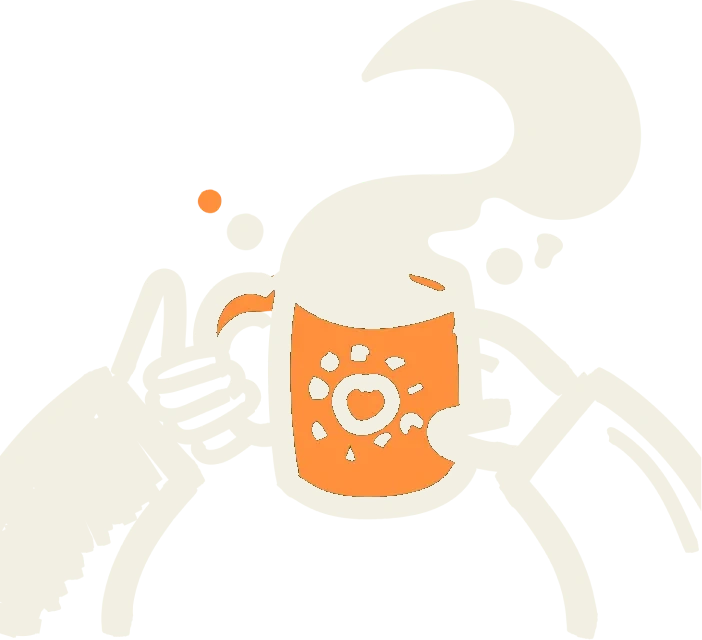
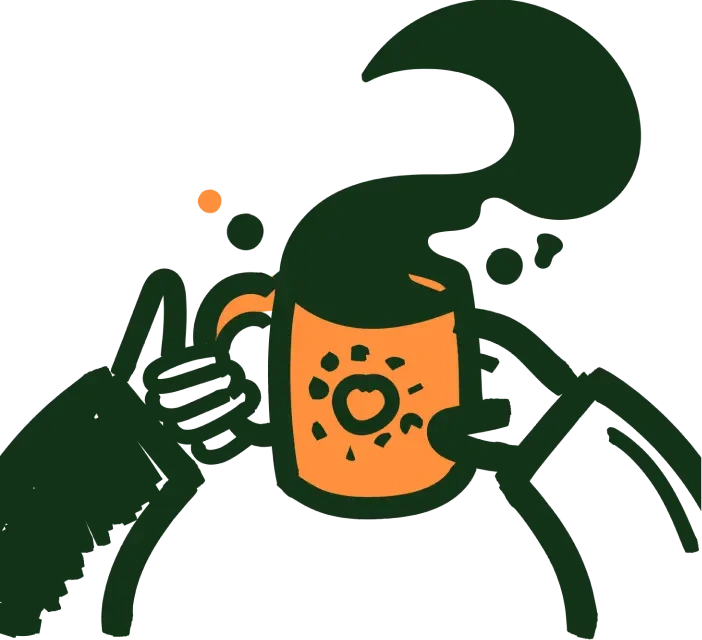
Make the cream hero the only one
Keeps the chosen treatment — no green panel, the wordmark leading in brand
green on cream paper — and removes the scaffolding built to compare them.

- Delete the band and cover hero functions, the ?hero= switch and their
  CSS blocks. logoBlock and mascotImg no longer take an ink argument.
- Delete the cream-ink artwork, now unused, and give the green pair the
  plain logo.webp / mascot.webp names.
- Retune the short-viewport tiers for this layout. The centred hero
  stacks the mascot under the wordmark, so it starts ~60px taller than
  the band did; trimming type and padding closed most of that, and below
  620px of height the mascot is hidden to close the rest.

Home now fits one screen with no scroll from 540px of visible height
upward, with every word of the copy intact at every size.

diff --git a/css/styles.css b/css/styles.css
@@ -188,9 +188,7 @@ a { color: inherit; text-decoration: none; }
 }
 
 /* ------------------------------------------------------------------ *
-   5. Hero
-      Three variants share these pieces; the .hero--* blocks below
-      arrange them. Pick one and delete the other two.
+   5. Hero — no green panel; the wordmark leads on cream paper
  * ------------------------------------------------------------------ */
 .hero { position: relative; isolation: isolate; }
 .hero__in {
@@ -201,13 +199,11 @@ a { color: inherit; text-decoration: none; }
 
 /* --- wordmark ---------------------------------------------------- */
 .brand { animation: rise .8s var(--ease-out) both .1s; }
-.brand__mark { width: min(12rem, 100%); }
-.brand--xl .brand__mark { width: min(17.5rem, 88%); }
-.brand--xxl .brand__mark { width: min(20rem, 82%); }
-.brand--center {
+.brand {
   display: flex; flex-direction: column; align-items: center;
   text-align: center;
 }
+.brand__mark { width: min(20rem, 82%); }
 .brand__kicker {
   display: block; margin-top: .5rem;
   font-size: .66rem; font-weight: 600;
@@ -222,60 +218,13 @@ a { color: inherit; text-decoration: none; }
   animation: bob 7s ease-in-out infinite;
 }
 
-/* --- variant A: slim green band, logo dominant ------------------- */
-.hero--band {
-  background: var(--ink-deep);
-  color: var(--paper);
-  border-radius: 0 0 var(--r) var(--r);
-  overflow: hidden;
-  margin-bottom: var(--sp-block);
-}
-.hero--band::before {
-  content: '';
-  position: absolute; inset: 0; z-index: -1;
-  background: radial-gradient(ellipse 66% 90% at 106% 50%,
-    color-mix(in srgb, var(--matcha) 26%, transparent), transparent 70%);
-}
-.hero--band .hero__in {
-  display: flex; align-items: center; gap: 1rem;
-  padding-top: calc(clamp(1.1rem, 2.6vh, 1.9rem) + env(safe-area-inset-top));
-  padding-bottom: clamp(1rem, 2.4vh, 1.7rem);
-}
-.hero--band .brand { flex: 1 1 auto; min-width: 0; }
-.hero--band .mascot--band { flex: none; width: clamp(3.8rem, 18vw, 5.2rem); }
-
-/* --- variant B: no green panel ----------------------------------- */
-.hero--cream .hero__in {
+.hero__in {
   padding-top: calc(3rem + env(safe-area-inset-top));
   padding-bottom: 0;
   text-align: center;
 }
-.hero--cream { margin-bottom: var(--sp-block); }
-.hero--cream .mascot--cream { margin: 1.6rem auto 0; }
-
-/* --- variant C: generous green cover ---------------------------- */
-.hero--cover {
-  background: var(--ink-deep);
-  color: var(--paper);
-  border-radius: 0 0 var(--r) var(--r);
-  overflow: hidden;
-  margin-bottom: var(--sp-block);
-}
-.hero--cover::before {
-  content: '';
-  position: absolute; inset: 0; z-index: -1;
-  background:
-    radial-gradient(ellipse 70% 50% at 108% -8%,
-      color-mix(in srgb, var(--matcha) 26%, transparent), transparent 70%),
-    radial-gradient(ellipse 60% 45% at -12% 104%,
-      color-mix(in srgb, var(--orange) 20%, transparent), transparent 70%);
-}
-.hero--cover .hero__in {
-  padding-top: calc(3.4rem + env(safe-area-inset-top));
-  padding-bottom: 2.4rem;
-  text-align: center;
-}
-.hero--cover .mascot--cover { margin: 1.9rem auto 0; }
+.hero { margin-bottom: var(--sp-block); }
+.mascot { margin: 1.6rem auto 0; }
 
 /* ------------------------------------------------------------------ *
    6. Shell
@@ -675,38 +624,28 @@ a { color: inherit; text-decoration: none; }
    The fluid gaps have already bottomed out by here, so the remaining
    savings come from type, which keeps every word rather than truncating
    the copy to make it fit. */
-@media (max-height: 720px) {
-  .intro__title { font-size: clamp(1.28rem, 5.8vw, 1.6rem); }
-  .intro__text { font-size: .89rem; line-height: 1.5; }
-  .link { padding: .92rem 1.05rem; }
+@media (max-height: 760px) {
+  .intro__title { font-size: clamp(1.24rem, 5.5vw, 1.52rem); }
+  .intro__text { font-size: .87rem; line-height: 1.44; }
+  .link { padding: .82rem 1.05rem; }
   .link__label { font-size: 1rem; }
   .link__sub { font-size: .78rem; }
-  .brand--xl .brand__mark { width: min(15.5rem, 84%); }
-  /* the two centred variants stack logo above mascot, so they need the
-     most help fitting — pull in their padding and shrink the mark */
-  .brand--xxl .brand__mark { width: min(15rem, 74%); }
-  .hero--cream .hero__in { padding-top: calc(1.5rem + env(safe-area-inset-top)); }
-  .hero--cover .hero__in {
-    padding-top: calc(1.6rem + env(safe-area-inset-top));
-    padding-bottom: 1.3rem;
-  }
-  .hero--cream .mascot--cream, .hero--cover .mascot--cover { margin-top: .9rem; }
+  .brand__mark { width: min(14.5rem, 70%); }
+  .hero__in { padding-top: calc(1.15rem + env(safe-area-inset-top)); }
+  .mascot { width: clamp(3rem, 12.5vw, 3.8rem); margin-top: .55rem; }
+  .brand__kicker { margin-top: .28rem; font-size: .62rem; letter-spacing: .28em; }
 }
 @media (max-height: 620px) {
-  .intro__title { font-size: 1.18rem; }
-  .intro__text { font-size: .84rem; line-height: 1.45; }
-  .link { padding: .8rem 1rem; }
+  .intro__title { font-size: 1.16rem; }
+  .intro__text { font-size: .83rem; line-height: 1.42; }
+  .link { padding: .76rem 1rem; }
   .social { width: 2.8rem; height: 2.8rem; }
-  .brand--xl .brand__mark { width: min(13.5rem, 78%); }
-  .brand--xxl .brand__mark { width: min(13rem, 68%); }
-  .mascot { width: clamp(3.4rem, 15vw, 4.4rem); }
-  .hero--cream .hero__in { padding-top: calc(1.1rem + env(safe-area-inset-top)); }
-  .hero--cover .hero__in {
-    padding-top: calc(1.2rem + env(safe-area-inset-top));
-    padding-bottom: 1rem;
-  }
-  .hero--cream .mascot--cream, .hero--cover .mascot--cover { margin-top: .6rem; }
-  .brand__kicker { margin-top: .3rem; letter-spacing: .28em; }
+  .brand__mark { width: min(13rem, 66%); }
+  .hero__in { padding-top: calc(1rem + env(safe-area-inset-top)); }
+  /* The mascot is decorative and already aria-hidden. On the most cramped
+     screens it is the one thing worth giving up to keep the page on a
+     single screen with all the words intact. */
+  .mascot { display: none; }
 }
 /* The shortest phones in a browser with full chrome. The @handle line goes
    — the two icons beside it already lead to the same accounts — and the
@@ -726,14 +665,9 @@ a { color: inherit; text-decoration: none; }
 
 @media (min-width: 34rem) {
   :root { --pad: 1.6rem; }
-  .hero--band, .hero--cover { border-radius: 0 0 1.9rem 1.9rem; }
   .lb__scroll.is-zoomed .lb__img { width: calc(var(--z, 1) * (100vw - 3rem)); }
 }
 @media (min-width: 60rem) {
-  .hero--band, .hero--cover {
-    margin-top: 1.6rem; border-radius: 1.9rem;
-    max-width: var(--col); margin-inline: auto;
-  }
   .lb__scroll.is-zoomed .lb__img { width: calc(var(--z, 1) * min(100vw - 3rem, 60rem)); }
 }
 

diff --git a/js/app.js b/js/app.js
@@ -12,10 +12,6 @@
  *  straight from the source artwork, and every image carries its
  *  intrinsic width/height so the browser reserves the right box and can
  *  never distort the page.
- *
- *  HERO VARIANTS — temporary, for picking a direction. Append ?hero=band,
- *  ?hero=cream or ?hero=cover to compare. Once one is chosen, keep that
- *  function, delete the other two and drop the switch.
  * ------------------------------------------------------------------ */
 (function () {
   'use strict';
@@ -31,12 +27,6 @@
   const menuOf = (branch) => MENU_PAGES[branch.menu];
   /** What to call the downloadable original, taken from its extension. */
   const originalKind = (menu) => (/\.pdf$/i.test(menu.pdf) ? 'PDF' : 'image');
-
-  const HEROES = ['band', 'cream', 'cover'];
-  function heroChoice() {
-    const q = new URLSearchParams(location.search).get('hero');
-    return HEROES.indexOf(q) !== -1 ? q : 'band';
-  }
 
   const SOCIAL = {
     instagram:
@@ -59,22 +49,17 @@
   /* ---------------------------------------------------------------- *
    *  Hero pieces
    * ---------------------------------------------------------------- */
-  /** Wordmark + kicker. `ink` picks the cream or green artwork. */
-  function logoBlock(ink, cls) {
-    const file = ink === 'cream' ? 'logo.webp' : 'logo-green.webp';
-    return (
-      '<div class="brand ' + (cls || '') + '">' +
-        '<img class="brand__mark" src="assets/img/' + file + '" width="2760" height="565" ' +
-          'alt="Daily Dose" fetchpriority="high" decoding="async">' +
-        '<span class="brand__kicker">' + esc(SITE.kicker) + '</span>' +
-      '</div>'
-    );
-  }
+  /** Wordmark + kicker, in the brand green on cream paper. */
+  const logoBlock = () =>
+    '<div class="brand">' +
+      '<img class="brand__mark" src="assets/img/logo.webp" width="2760" height="565" ' +
+        'alt="Daily Dose" fetchpriority="high" decoding="async">' +
+      '<span class="brand__kicker">' + esc(SITE.kicker) + '</span>' +
+    '</div>';
 
-  const mascotImg = (ink, cls) =>
-    '<img class="mascot ' + (cls || '') + '" width="702" height="640" alt="" aria-hidden="true" ' +
-    'fetchpriority="high" decoding="async" src="assets/img/' +
-    (ink === 'cream' ? 'mascot.webp' : 'mascot-green.webp') + '">';
+  const mascotImg = () =>
+    '<img class="mascot" src="assets/img/mascot.webp" width="702" height="640" alt="" ' +
+    'aria-hidden="true" fetchpriority="high" decoding="async">';
 
   /* The page's only h1, so the home page has a real heading. */
   const introBlock = () =>
@@ -83,46 +68,13 @@
       '<p class="intro__text rise" style="--i:4">' + esc(SITE.about) + '</p>' +
     '</section>';
 
-  /* --- variant A: slim green band, logo and mascot side by side ---- */
-  function heroBand() {
-    return (
-      '<header class="hero hero--band">' +
-        '<div class="hero__in">' +
-          logoBlock('cream', 'brand--xl') +
-          mascotImg('cream', 'mascot--band') +
-        '</div>' +
-      '</header>' +
-      '<div class="wrap">' + introBlock() + '</div>'
-    );
-  }
+  /* --- the hero: no green panel, the wordmark leading on cream ----- */
+  const heroHtml = () =>
+    '<header class="hero">' +
+      '<div class="hero__in">' + logoBlock() + mascotImg() + '</div>' +
+    '</header>' +
+    '<div class="wrap">' + introBlock() + '</div>';
 
-  /* --- variant B: no green panel, green logo on cream -------------- */
-  function heroCream() {
-    return (
-      '<header class="hero hero--cream">' +
-        '<div class="hero__in">' +
-          logoBlock('green', 'brand--xxl brand--center') +
-          mascotImg('green', 'mascot--cream') +
-        '</div>' +
-      '</header>' +
-      '<div class="wrap">' + introBlock() + '</div>'
-    );
-  }
-
-  /* --- variant C: generous green cover, logo centred on it --------- */
-  function heroCover() {
-    return (
-      '<header class="hero hero--cover">' +
-        '<div class="hero__in">' +
-          logoBlock('cream', 'brand--xxl brand--center') +
-          mascotImg('cream', 'mascot--cover') +
-        '</div>' +
-      '</header>' +
-      '<div class="wrap">' + introBlock() + '</div>'
-    );
-  }
-
-  const HERO_FN = { band: heroBand, cream: heroCream, cover: heroCover };
 
   /* ---------------------------------------------------------------- *
    *  Shared chrome
@@ -184,7 +136,7 @@
        overflowing. */
     return (
       '<div class="home">' +
-        HERO_FN[heroChoice()]() +
+        heroHtml() +
         '<div class="wrap home__links">' +
           '<nav class="links stack" aria-label="Main links">' + links + '</nav>' +
         '</div>' +
@@ -545,7 +497,6 @@
   /* ---------------------------------------------------------------- *
    *  Boot
    * ---------------------------------------------------------------- */
-  document.documentElement.dataset.hero = heroChoice();
   window.addEventListener('hashchange', render);
   window.addEventListener('scroll', onScroll, { passive: true });
   render();

diff --git a/README.md b/README.md
@@ -107,23 +107,6 @@ Everything routine is in **`js/data.js`**:
 
 ---
 
-## Hero variants — pick one, then prune
-
-`js/app.js` currently ships three hero treatments so they can be compared in
-place. Append the query to the URL:
-
-| URL | Treatment |
-|---|---|
-| `?hero=band` (default) | Slim green band, logo and mascot side by side — smallest footprint |
-| `?hero=cream` | No green panel at all; large green logo centred on cream |
-| `?hero=cover` | Generous green cover, logo centred with the mascot beneath |
-
-All three show only the logo, kicker and mascot — the booklet tagline and poem
-were removed. Once one is chosen, keep its function in `app.js`, delete the
-other two along with their `.hero--*` blocks in the CSS, and drop the
-`heroChoice()` switch. The unused `logo-green.webp` / `mascot-green.webp` (or
-the cream pair) can go too, depending on which survives.
-
 ## Design notes
 
 The printed booklet is the design system, so the site reads as the same object:
@@ -132,12 +115,14 @@ type.
 
 - **Colours** are sampled from the source artwork: paper `#F2F0E2`, ink
   `#1B582C`, cover green `#1C4425`, orange `#F68F43`.
-- **Green panels are always the booklet green**, in both themes — which is why
-  the logo and mascot placed on them use the cream-ink artwork. A green logo on
-  a green panel disappears, so each asset ships in both inks and the hero picks
-  the right one.
+- **The hero has no green panel.** The wordmark leads in brand green on cream
+  paper, so only the green-ink artwork ships. (If a green background is ever
+  reintroduced, the logo and mascot need cream-ink copies — green on green
+  disappears.)
 - **Light is the default**, regardless of the device's system setting. Dark
-  mode is opt-in via the toggle at the bottom-right and is remembered. It uses
+  mode is opt-in and remembered; the toggle sits beside the social icons on
+  home and in the topbar elsewhere, inline rather than floating, so it costs
+  the layout no space. It uses
   a warm charcoal rather than a second green, so the green panels and the orange
   accents still register. Body text is 7.4:1 in light and 12:1 in dark, both
   WCAG AAA.
@@ -149,6 +134,13 @@ type.
 - **Images** always carry their intrinsic `width`/`height` alongside a global
   `height: auto`, so the browser reserves the correct box and artwork is never
   stretched or shifted.
+- **Home fits one phone screen without scrolling.** It is a `100dvh` flex
+  column with the footer cluster pushed down by `margin-top: auto`, the larger
+  rhythm steps scale with viewport height, and three `max-height` tiers trim
+  type on shorter screens. Verified exact from 540px of visible height upward.
+  Nothing is ever truncated: below 620px tall the decorative mascot is hidden
+  and below 580px the `@handle` line goes, since the icons beside it lead to
+  the same accounts.
 
 ### A note on the brand fonts
 
